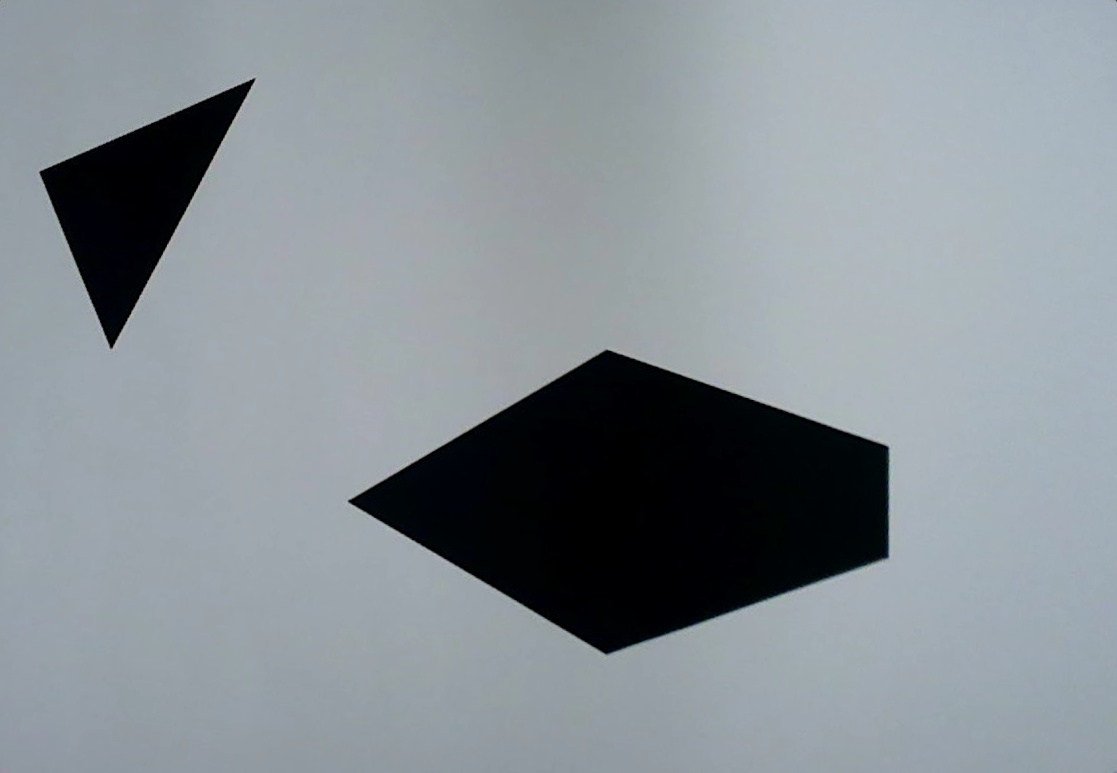
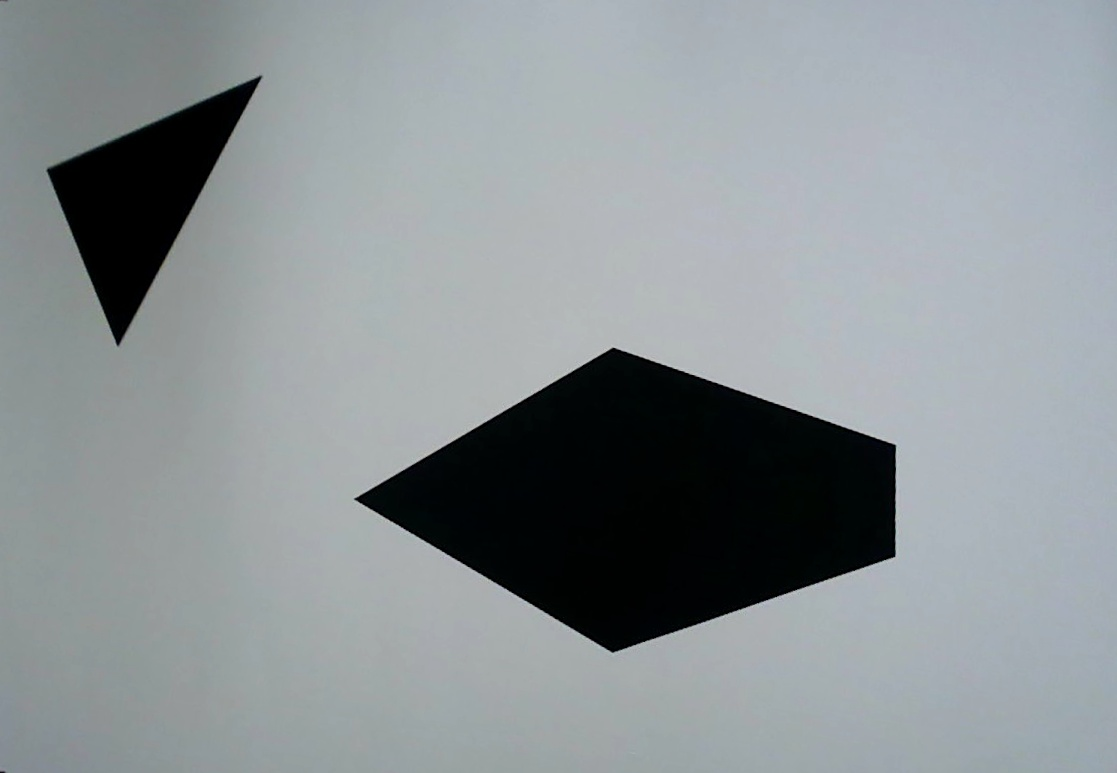
bug

diff --git a/global_nav.py b/global_nav.py
@@ -3,6 +3,7 @@ import heapq
 from math import sqrt
 import constants as cst
 import matplotlib.pyplot as plt
+import cv2
 
 #obstacle minimum 3 points no lines
 
@@ -215,7 +216,8 @@ class GlobalNav:
 
         print("Press 'p' to close the plot.")
         plot_graph = True
-        key = 'p'
+        key = -1
+        key = cv2.waitKey(1) & 0xFF
         while plot_graph:
             if key == ord('p'):
                 plot_graph = False
